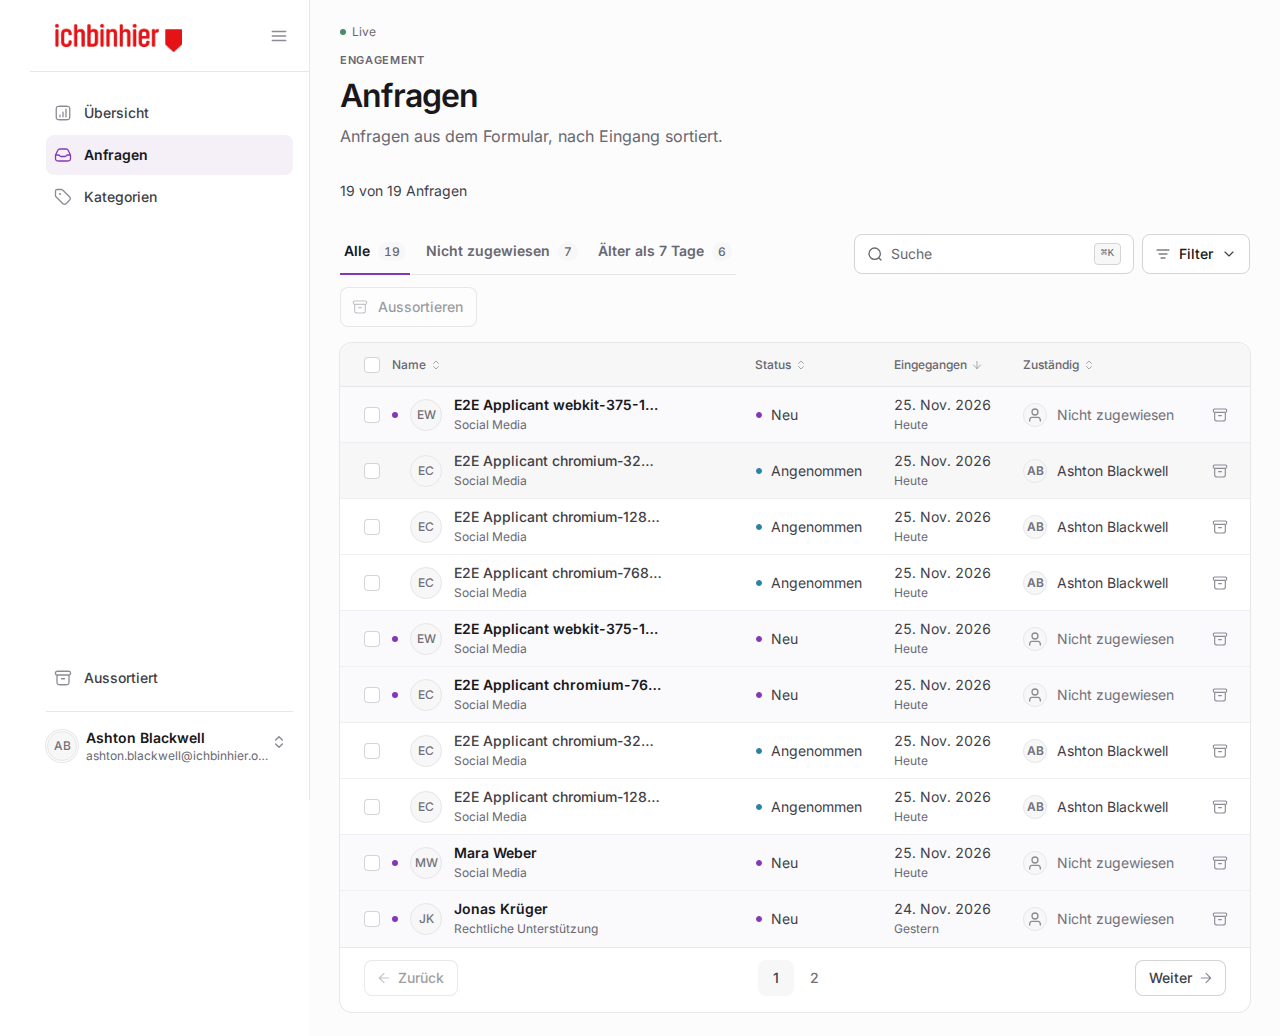
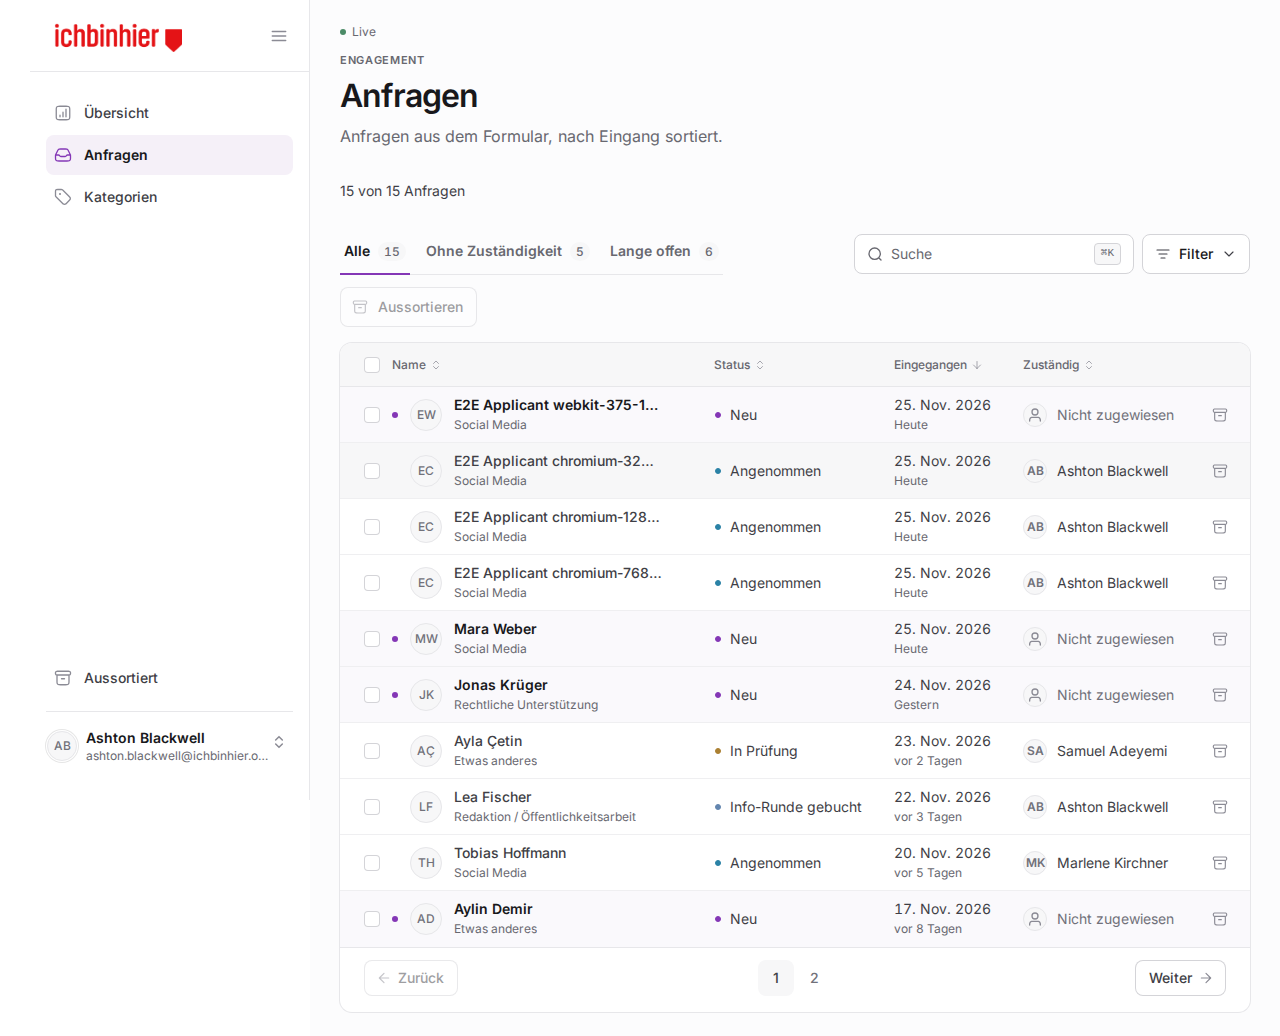
test(e2e): cover the cut-off view tab at 320 px
Also updates the responsive notes and recaptures the Anfragen
screenshots with the new tab labels.

diff --git a/e2e/tests/tab-strip.spec.ts b/e2e/tests/tab-strip.spec.ts
@@ -1,0 +1,60 @@
+import { expect, type Locator, test } from '@playwright/test';
+
+import { DASHBOARD_URL, signInAsStaff } from './helpers';
+
+// Issue #207: at 320 px the three views of Anfragen are wider than the screen.
+// The strip scrolls, and the edge hiding a tab fades out.
+
+async function fadedEdges(strip: Locator) {
+  return strip.evaluate((element) => {
+    const mask = getComputedStyle(element).maskImage;
+
+    return {
+      start: mask.includes('to left'),
+      end: mask.includes('to right'),
+    };
+  });
+}
+
+async function isWithin(inner: Locator, outer: Locator) {
+  const [a, b] = await Promise.all([inner.boundingBox(), outer.boundingBox()]);
+
+  if (!a || !b) return false;
+
+  return a.x >= b.x - 0.5 && a.x + a.width <= b.x + b.width + 0.5;
+}
+
+test('a cut-off view tab fades out and shows whole once chosen', async ({
+  page,
+}, testInfo) => {
+  test.skip(
+    testInfo.project.name !== 'chromium-320',
+    'Only 320 px is narrow enough to cut a tab off',
+  );
+
+  await signInAsStaff(page);
+  await page.goto(`${DASHBOARD_URL}/#applications`);
+
+  const strip = page.getByRole('tablist', { name: 'Anfragen' });
+  const stale = strip.getByRole('tab', { name: /Lange offen/ });
+  await expect(stale).toBeVisible();
+
+  expect(await isWithin(stale, strip)).toBe(false);
+  expect(await fadedEdges(strip)).toEqual({ start: false, end: true });
+
+  // Click the visible sliver at the right edge, the way a person would;
+  // `stale.click()` would scroll the tab into view first.
+  const box = await strip.boundingBox();
+  if (!box) throw new Error('tab strip has no box');
+  await page.mouse.click(box.x + box.width - 12, box.y + box.height / 2);
+
+  await expect(stale).toHaveAttribute('aria-selected', 'true');
+  await expect.poll(() => isWithin(stale, strip)).toBe(true);
+  expect(await fadedEdges(strip)).toEqual({ start: true, end: false });
+
+  await strip.getByRole('tab', { name: /Alle/ }).focus();
+  await expect.poll(() => fadedEdges(strip)).toEqual({
+    start: false,
+    end: true,
+  });
+});

diff --git a/docs/RESPONSIVE.md b/docs/RESPONSIVE.md
@@ -39,10 +39,12 @@ Application erst ab 1024 px in einer Seitenleiste. Darunter ersetzt die
 Detailansicht die Liste. Der Test hatte die schmale Ansicht nur bei 320 px
 erwartet und wählt sie jetzt nach der Breite.
 
-Bei 375 px passen die drei Reiter der Anfragen-Liste nicht ganz auf den
-Bildschirm: der dritte, "Älter als 7 Tage", ist am rechten Rand abgeschnitten.
-Die Seite selbst ragt nicht über den Rand, das prüft der E2E-Test. Ob die
-Reiterleiste auf dem Handy gut bedienbar ist, ist noch nicht geprüft.
+Bei 320 und 375 px passen die drei Reiter der Anfragen-Liste nicht ganz auf
+den Bildschirm. Die Reiterleiste lässt sich waagerecht scrollen, und der Rand,
+hinter dem ein Reiter liegt, blendet aus (#207). Ein angeklickter oder per
+Tastatur erreichter Reiter rückt ganz ins Bild. Das prüft
+`e2e/tests/tab-strip.spec.ts` bei 320 px. Die Seite selbst ragt nicht über den
+Rand, das prüft der E2E-Test zur Barrierefreiheit.
 
 ## Screenshots
 
